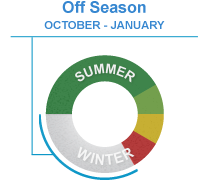
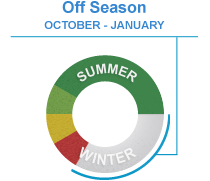
New mockups

diff --git a/mockups/js/jquery.raty.min.js b/mockups/js/jquery.raty.min.js
@@ -1,12 +1,13 @@
 /**
  * jQuery Raty - A Star Rating Plugin - http://wbotelhos.com/raty
  * 
- * @author	  Washington Botelho
- * @twitter   wbotelhos
+ * @author  Washington Botelho
+ * @twitter wbotelhos
+ * @version 1.3.2
  * 
  * Licensed under The MIT License
  * http://opensource.org/licenses/mit-license.php
  * 
  */
 
-(function(g){g.fn.raty=function(m){options=g.extend({},g.fn.raty.defaults,m);if(this.length==0){d("Invalid selector!");return;}else{if(this.length>1){return this.each(function(){g.fn.raty.apply(g(this),[m]);});}}if(options.number>20){options.number=20;}else{if(options.number<0){options.number=0;}}if(options.path.substring(options.path.length-1,options.path.length)!="/"){options.path+="/";}$global=g(this);var k=this.attr("id"),l=0,r=options.starOn,n="";if(k==""){k="raty-"+$global.index();$global.attr("id",k);}if(!isNaN(options.start)&&options.start>0){l=(options.start>options.number)?options.number:options.start;}for(var o=1;o<=options.number;o++){r=(l>=o)?options.starOn:options.starOff;n=(o<=options.hintList.length&&options.hintList[o-1]!==null)?options.hintList[o-1]:o;$global.append('<img id="'+k+"-"+o+'" src="'+options.path+r+'" alt="'+o+'" title="'+n+'" class="'+k+'"/>').append((o<options.number)?"&nbsp;":"");}g("<input/>",{id:k+"-score",type:"hidden",name:options.scoreName}).appendTo($global).val(l);if(options.showHalf){b($global,g("input#"+k+"-score").val(),options);}if(!options.readOnly){if(options.showCancel){var p=g("img."+k),s='<img src="'+options.path+options.cancelOff+'" alt="x" title="'+options.cancelHint+'" class="button-cancel"/>',j=options,q=$global;if(j.cancelPlace=="left"){$global.prepend(s+"&nbsp;");}else{$global.append("&nbsp;").append(s);}g("#"+k+" img.button-cancel").mouseenter(function(){g(this).attr("src",j.path+j.cancelOn);p.attr("src",j.path+j.starOff);}).mouseleave(function(){g(this).attr("src",j.path+j.cancelOff);p.mouseout();}).click(function(){g("input#"+k+"-score").val(0);if(j.onClick){j.onClick.apply(q,[0]);}});$global.css("width",j.number*20+20);}else{$global.css("width",options.number*20);}$global.css("cursor","pointer");f($global,options);}else{$global.css("cursor","default");h($global,l,options);}return $global;};g.fn.raty.defaults={cancelHint:"cancel this rating!",cancelOff:"cancel-off.png",cancelOn:"cancel-on.png",cancelPlace:"left",hintList:["bad","poor","regular","good","gorgeous"],noRatedMsg:"not rated yet",number:5,path:"images/",iconRange:[],readOnly:false,scoreName:"score",showCancel:false,showHalf:false,starHalf:"star-half.png",starOff:"star-off.png",starOn:"star-on.png",start:0,onClick:null};g.fn.raty.click=function(j,k){var i=e(j,k,"click");a(i,j,options);if(options.onClick){options.onClick.apply(i,[j]);}else{d('You must add the "onClick: function(score) { }" option.');}return g.fn.raty;};g.fn.raty.readOnly=function(j,l){var i=e(j,l,"readOnly"),k=i.children("img.button-cancel");if(k[0]){(j)?k.hide():k.show();}if(j){g("img."+i.attr("id")).unbind();i.css("cursor","default").unbind();}else{f(i,options);i.css("cursor","pointer");}return g.fn.raty;};g.fn.raty.start=function(i,j){a(e(i,j,"start"),i,options);return g.fn.raty;};function f(k,j){var m=k.attr("id"),l=g("input#"+m+"-score"),i=g("img."+m).length;g("#"+m).mouseleave(function(){a(k,l.val(),j);});g("img."+m).mouseenter(function(){c(m,this.alt,j);}).click(function(){l.val(this.alt);if(j.onClick){j.onClick.apply(k,[this.alt]);}});}function e(l,m,i){var j=$global;if(m){if(m.indexOf(".")==0){var k;return g(m).each(function(){k="#"+g(this).attr("id");if(i=="start"){g.fn.raty.start(l,k);}else{if(i=="click"){g.fn.raty.click(l,k);}else{if(i=="readOnly"){g.fn.raty.readOnly(l,k);}}}});}j=g(m);if(!j.length){d('"'+m+'" is a invalid ID for the public funtion $.fn.raty.'+i+"().");return;}}return j;}function d(i){if(console&&console.log){console.log(i);}}function c(j,k,r){var l=g("img."+j).length,q=0,o=0,p,m;for(var n=1;n<=l;n++){p=g("img#"+j+"-"+n);if(n<=k){if(r.iconRange&&r.iconRange.length>q){m=r.iconRange[q][0];o=r.iconRange[q][1];if(n<=o){p.attr("src",r.path+m);}if(n==o){q++;}}else{p.attr("src",r.path+r.starOn);}}else{p.attr("src",r.path+r.starOff);}}}function h(j,k,i){if(k!=0){k=parseInt(k);hint=(k>0&&i.number<=i.hintList.length&&i.hintList[k-1]!==null)?i.hintList[k-1]:k;}else{hint=i.noRatedMsg;}g("#"+j.attr("id")).attr("title",hint).children("img").attr("title",hint);}function a(j,k,i){var l=j.attr("id");if(k<0||isNaN(k)){k=0;}else{if(k>i.number){k=i.number;}}g("input#"+l+"-score").val(k);c(l,k,i);if(i.showHalf){b(j,k,i);}if(i.readOnly||j.css("cursor")=="default"){h(j,k,i);}}function b(k,m,j){var n=k.attr("id"),i=Math.ceil(m),l=(i-m).toFixed(1);if(l>=0.3&&l<=0.7){i=i-0.5;g("img#"+n+"-"+Math.ceil(i)).attr("src",j.path+j.starHalf);}else{if(l>=0.8){i--;}else{g("img#"+n+"-"+i).attr("src",j.path+j.starOn);}}}})(jQuery);
+(function(g){g.fn.raty=function(n){options=g.extend({},g.fn.raty.defaults,n);if(this.length==0){d("Selector invalid or missing!");return;}else{if(this.length>1){return this.each(function(){g.fn.raty.apply(g(this),[n]);});}}if(options.number>20){options.number=20;}else{if(options.number<0){options.number=0;}}if(options.path.substring(options.path.length-1,options.path.length)!="/"){options.path+="/";}$global=g(this);$global.data("options",options);var k=this.attr("id"),l=0,s=options.starOn,o="",m=(options.width)?options.width:(options.number*options.size+options.number*4);if(k==""){k="raty-"+$global.index();$global.attr("id",k);}if(!isNaN(options.start)&&options.start>0){l=(options.start>options.number)?options.number:options.start;}for(var p=1;p<=options.number;p++){s=(l>=p)?options.starOn:options.starOff;o=(p<=options.hintList.length&&options.hintList[p-1]!==null)?options.hintList[p-1]:p;$global.append('<img id="'+k+"-"+p+'" src="'+options.path+s+'" alt="'+p+'" title="'+o+'" class="'+k+'"/>').append((p<options.number)?"&nbsp;":"");}g("<input/>",{id:k+"-score",type:"hidden",name:options.scoreName}).appendTo($global).val(l);if(options.half){b($global,g("input#"+k+"-score").val(),options);}if(!options.readOnly){if(options.cancel){var q=g("img."+k),t='<img src="'+options.path+options.cancelOff+'" alt="x" title="'+options.cancelHint+'" class="button-cancel"/>',j=options,r=$global;if(j.cancelPlace=="left"){$global.prepend(t+"&nbsp;");}else{$global.append("&nbsp;").append(t);}g("#"+k+" img.button-cancel").mouseenter(function(){g(this).attr("src",j.path+j.cancelOn);q.attr("src",j.path+j.starOff);}).mouseleave(function(){g(this).attr("src",j.path+j.cancelOff);q.mouseout();}).click(function(){g("input#"+k+"-score").val(0);if(j.click){j.click.apply(r,[0]);}});$global.css("width",m+options.size+4);}else{$global.css("width",m);}$global.css("cursor","pointer");f($global,options);}else{$global.css("cursor","default");h($global,l,options);}return $global;};function f(k,j){var m=k.attr("id"),l=g("input#"+m+"-score"),i=g("img."+m).length;g("#"+m).mouseleave(function(){a(k,l.val(),j);});g("img."+m).mousemove(function(o){c(m,this.alt,j);if(j.half){var n=parseFloat(((o.pageX-g(this).offset().left)/j.size).toFixed(1));n=(n>=0&&n<0.5)?0.5:1;k.data("score",parseFloat(this.alt)+n-1);b(k,k.data("score"),j);}else{c(m,this.alt,j);}}).click(function(){l.val(j.half?k.data("score"):this.alt);if(j.click){j.click.apply(k,[l.val()]);}});}function e(m,j,i){var k=$global;if(j){if(j.indexOf(".")>=0){var l;return g(j).each(function(){l="#"+g(this).attr("id");if(i=="start"){g.fn.raty.start(m,l);}else{if(i=="click"){g.fn.raty.click(m,l);}else{if(i=="readOnly"){g.fn.raty.readOnly(m,l);}}}});}k=g(j);if(!k.length){d('"'+j+'" is a invalid identifier for the public funtion $.fn.raty.'+i+"().");return;}}return k;}function d(i){if(console&&console.log){console.log(i);}}function c(j,k,r){var l=g("img."+j).length,q=0,o=0,p,m;for(var n=1;n<=l;n++){p=g("img#"+j+"-"+n);if(n<=k){if(r.iconRange&&r.iconRange.length>q){m=r.iconRange[q][0];o=r.iconRange[q][1];if(n<=o){p.attr("src",r.path+m);}if(n==o){q++;}}else{p.attr("src",r.path+r.starOn);}}else{p.attr("src",r.path+r.starOff);}}}function h(j,k,i){if(k!=0){k=parseInt(k);hint=(k>0&&i.number<=i.hintList.length&&i.hintList[k-1]!==null)?i.hintList[k-1]:k;}else{hint=i.noRatedMsg;}g("#"+j.attr("id")).attr("title",hint).children("img").attr("title",hint);}function a(j,k,i){var l=j.attr("id");if(k<0||isNaN(k)){k=0;}else{if(k>i.number){k=i.number;}}g("input#"+l+"-score").val(k);c(l,k,i);if(i.half){b(j,k,i);}if(i.readOnly||j.css("cursor")=="default"){h(j,k,i);}}function b(k,m,j){var n=k.attr("id"),i=Math.ceil(m),l=(i-m).toFixed(1);if(l>=0.3&&l<=0.7){i=i-0.5;g("img#"+n+"-"+Math.ceil(i)).attr("src",j.path+j.starHalf);}else{if(l>=0.8){i--;}else{g("img#"+n+"-"+i).attr("src",j.path+j.starOn);}}}g.fn.raty.click=function(l,j){var k=e(l,j,"click"),i=g(j).data("options");a(k,l,i);if(i.click){i.click.apply(k,[l]);}else{d('You must add the "click: function(score) { }" callback.');}return g.fn.raty;};g.fn.raty.readOnly=function(l,j){var k=e(l,j,"readOnly"),m=k.children("img.button-cancel"),i=g(j).data("options");if(m[0]){(l)?m.hide():m.show();}if(l){g("img."+k.attr("id")).unbind();k.css("cursor","default").unbind();}else{f(k,i);k.css("cursor","pointer");}return g.fn.raty;};g.fn.raty.start=function(l,j){var k=e(l,j,"start"),i=g(j).data("options");a(k,l,i);return g.fn.raty;};g.fn.raty.defaults={cancel:false,cancelHint:"cancel this rating!",cancelOff:"cancel-off.png",cancelOn:"cancel-on.png",cancelPlace:"left",click:null,half:false,hintList:["bad","poor","regular","good","gorgeous"],noRatedMsg:"not rated yet",number:5,path:"img/",iconRange:[],readOnly:false,scoreName:"score",size:16,starHalf:"star-half.png",starOff:"star-off.png",starOn:"star-on.png",start:0,width:null};})(jQuery);

diff --git a/mockups/homepage.html b/mockups/homepage.html
@@ -71,6 +71,10 @@
         <div class="grid_9">
             
             <div class="content">
+            
+                <div id="user-login">
+                    <p>You are signed in as socstudent@gmail.com. <a href="javascript:void(0)">(Not you?)</a></p>
+                </div>
                 
                 <div id="how-it-works" class="block full home-block-1">
                     <h2 id="title-section-how-it-works">How Google Summer of Code Works</h2>
@@ -132,11 +136,11 @@
                         <div id="block-program-timeline-content" class="block-content">
                             <img id="program-timeline" src="images/image-map-student-apps.png" usemap="#program-timeline" width="210" height="181" alt="" />
                             <map id="_program-timeline" name="program-timeline">
-                            <area shape="poly" coords="45,113,56,79,78,60,107,55,134,63,155,84,133,98,118,82,94,79,77,93,72,114," href="javascript:void(0)" alt="On Season" title="On Season" onMouseOver="if(document.images) document.getElementById('program-timeline').src= 'images/image-map-on-season.png';" onMouseOut="if(document.images) document.getElementById('program-timeline').src= 'images/image-map-student-apps.png';" />
-                            <area shape="poly" coords="133,98,143,90,155,84,162,98,164,114,136,114," href="javascript:void(0)" alt="Students Applications" title="Students Applications" onMouseOver="if(document.images) document.getElementById('program-timeline').src= 'images/image-map-student-apps.png';" onMouseOut="if(document.images) document.getElementById('program-timeline').src= 'images/image-map-student-apps.png';" />
-                            <area shape="poly" coords="132,130,137,114,164,114,163,130,156,145,143,137" href="javascript:void(0)" alt="Organization Applications" title="Organization Applications" onMouseOver="if(document.images) document.getElementById('program-timeline').src= 'images/image-map-org-apps.png';" onMouseOut="if(document.images) document.getElementById('program-timeline').src= 'images/image-map-student-apps.png';" />
-                            <area shape="poly" coords="120,142,134,131,155,143,147,156,133,165," href="javascript:void(0)" alt="Kickoff" title="Kickoff" onMouseOver="if(document.images) document.getElementById('program-timeline').src= 'images/image-map-kickoff.png';" onMouseOut="if(document.images) document.getElementById('program-timeline').src= 'images/image-map-student-apps.png';" />
-                            <area shape="poly" coords="45,113,72,113,79,138,105,147,121,141,134,164,100,169,72,161,55,143,48,129," href="javascript:void(0)" alt="Off Season" title="Off Season" onMouseOver="if(document.images) document.getElementById('program-timeline').src= 'images/image-map-off-season.png';" onMouseOut="if(document.images) document.getElementById('program-timeline').src= 'images/image-map-student-apps.png';" />
+                            <area shape="poly" coords="53,83,67,69,86,57,105,55,124,59,140,67,151,78,158,88,161,97,164,114,137,114,135,110,126,89,115,83,103,81,92,83,81,91,76,97" href="javascript:void(0)" alt="On Season" title="On Season" onMouseOver="if(document.images) document.getElementById('program-timeline').src= 'images/image-map-on-season.png';" onMouseOut="if(document.images) document.getElementById('program-timeline').src= 'images/image-map-student-apps.png';" />
+                            <area shape="poly" coords="46,114,46,103,48,95,54,84,77,98,73,105,72,113," href="javascript:void(0)" alt="Students Applications" title="Students Applications" onMouseOver="if(document.images) document.getElementById('program-timeline').src= 'images/image-map-student-apps.png';" onMouseOut="if(document.images) document.getElementById('program-timeline').src= 'images/image-map-student-apps.png';" />
+                            <area shape="poly" coords="53,143,49,134,46,113,72,113,73,122,77,130" href="javascript:void(0)" alt="Organization Applications" title="Organization Applications" onMouseOver="if(document.images) document.getElementById('program-timeline').src= 'images/image-map-org-apps.png';" onMouseOut="if(document.images) document.getElementById('program-timeline').src= 'images/image-map-student-apps.png';" />
+                            <area shape="poly" coords="75,165,62,155,53,143,77,130,81,136,88,142" href="javascript:void(0)" alt="Kickoff" title="Kickoff" onMouseOver="if(document.images) document.getElementById('program-timeline').src= 'images/image-map-kickoff.png';" onMouseOut="if(document.images) document.getElementById('program-timeline').src= 'images/image-map-student-apps.png';" />
+                            <area shape="poly" coords="88,142,101,146,114,145,126,139,134,128,137,113,164,113,161,131,154,145,147,155,134,165,119,171,104,173,89,171,75,165" href="javascript:void(0)" alt="Off Season" title="Off Season" onMouseOver="if(document.images) document.getElementById('program-timeline').src= 'images/image-map-off-season.png';" onMouseOut="if(document.images) document.getElementById('program-timeline').src= 'images/image-map-student-apps.png';" />
                             </map>
                         </div>
                     </div>

diff --git a/mockups/js/smoothscroll.js b/mockups/js/smoothscroll.js
@@ -1,0 +1,145 @@
+/* Smooth scrolling
+   Changes links that link to other parts of this page to scroll
+   smoothly to those links rather than jump to them directly, which
+   can be a little disorienting.
+   
+   sil, http://www.kryogenix.org/
+   
+   v1.0 2003-11-11
+   v1.1 2005-06-16 wrap it up in an object
+*/
+
+var ss = {
+  fixAllLinks: function() {
+    // Get a list of all links in the page
+    var allLinks = document.getElementsByTagName('a');
+    // Walk through the list
+    for (var i=0;i<allLinks.length;i++) {
+      var lnk = allLinks[i];
+      if ((lnk.href && lnk.href.indexOf('#') != -1) && 
+          ( (lnk.pathname == location.pathname) ||
+	    ('/'+lnk.pathname == location.pathname) ) && 
+          (lnk.search == location.search)) {
+        // If the link is internal to the page (begins in #)
+        // then attach the smoothScroll function as an onclick
+        // event handler
+        ss.addEvent(lnk,'click',ss.smoothScroll);
+      }
+    }
+  },
+
+  smoothScroll: function(e) {
+    // This is an event handler; get the clicked on element,
+    // in a cross-browser fashion
+    if (window.event) {
+      target = window.event.srcElement;
+    } else if (e) {
+      target = e.target;
+    } else return;
+
+    // Make sure that the target is an element, not a text node
+    // within an element
+    if (target.nodeName.toLowerCase() != 'a') {
+      target = target.parentNode;
+    }
+  
+    // Paranoia; check this is an A tag
+    if (target.nodeName.toLowerCase() != 'a') return;
+  
+    // Find the <a name> tag corresponding to this href
+    // First strip off the hash (first character)
+    anchor = target.hash.substr(1);
+    // Now loop all A tags until we find one with that name
+    var allLinks = document.getElementsByTagName('a');
+    var destinationLink = null;
+    for (var i=0;i<allLinks.length;i++) {
+      var lnk = allLinks[i];
+      if (lnk.name && (lnk.name == anchor)) {
+        destinationLink = lnk;
+        break;
+      }
+    }
+    if (!destinationLink) destinationLink = document.getElementById(anchor);
+
+    // If we didn't find a destination, give up and let the browser do
+    // its thing
+    if (!destinationLink) return true;
+  
+    // Find the destination's position
+    var destx = destinationLink.offsetLeft; 
+    var desty = destinationLink.offsetTop;
+    var thisNode = destinationLink;
+    while (thisNode.offsetParent && 
+          (thisNode.offsetParent != document.body)) {
+      thisNode = thisNode.offsetParent;
+      destx += thisNode.offsetLeft;
+      desty += thisNode.offsetTop;
+    }
+  
+    // Stop any current scrolling
+    clearInterval(ss.INTERVAL);
+  
+    cypos = ss.getCurrentYPos();
+  
+    ss_stepsize = parseInt((desty-cypos)/ss.STEPS);
+    ss.INTERVAL =
+setInterval('ss.scrollWindow('+ss_stepsize+','+desty+',"'+anchor+'")',10);
+  
+    // And stop the actual click happening
+    if (window.event) {
+      window.event.cancelBubble = true;
+      window.event.returnValue = false;
+    }
+    if (e && e.preventDefault && e.stopPropagation) {
+      e.preventDefault();
+      e.stopPropagation();
+    }
+  },
+
+  scrollWindow: function(scramount,dest,anchor) {
+    wascypos = ss.getCurrentYPos();
+    isAbove = (wascypos < dest);
+    window.scrollTo(0,wascypos + scramount);
+    iscypos = ss.getCurrentYPos();
+    isAboveNow = (iscypos < dest);
+    if ((isAbove != isAboveNow) || (wascypos == iscypos)) {
+      // if we've just scrolled past the destination, or
+      // we haven't moved from the last scroll (i.e., we're at the
+      // bottom of the page) then scroll exactly to the link
+      window.scrollTo(0,dest);
+      // cancel the repeating timer
+      clearInterval(ss.INTERVAL);
+      // and jump to the link directly so the URL's right
+      location.hash = anchor;
+    }
+  },
+
+  getCurrentYPos: function() {
+    if (document.body && document.body.scrollTop)
+      return document.body.scrollTop;
+    if (document.documentElement && document.documentElement.scrollTop)
+      return document.documentElement.scrollTop;
+    if (window.pageYOffset)
+      return window.pageYOffset;
+    return 0;
+  },
+
+  addEvent: function(elm, evType, fn, useCapture) {
+    // addEvent and removeEvent
+    // cross-browser event handling for IE5+,  NS6 and Mozilla
+    // By Scott Andrew
+    if (elm.addEventListener){
+      elm.addEventListener(evType, fn, useCapture);
+      return true;
+    } else if (elm.attachEvent){
+      var r = elm.attachEvent("on"+evType, fn);
+      return r;
+    } else {
+      alert("Handler could not be removed");
+    }
+  } 
+}
+
+ss.STEPS = 25;
+
+ss.addEvent(window,"load",ss.fixAllLinks);

diff --git a/mockups/css/structure.css b/mockups/css/structure.css
@@ -423,6 +423,9 @@
 #footer .footer-meta .powered {
   padding-right: 15px;
 }
+#footer .footer-meta img {
+    vertical-align: bottom;
+}
 #footer .footer-menu {
   /*menu in footer*/
 
@@ -665,3 +668,22 @@ p.reply-logged-in a {
   font-style: normal;
   font-weight: normal;
 }
+/*////////////////
+
+  User Login
+
+////////////////*/
+#user-login {
+    margin: 0 0 10px 0;
+    text-align: right;
+}
+    #user-login p {
+        color: #989898;
+        font-style: italic;
+        font-weight: bold;
+        margin: 0;
+    }
+    #user-login a {
+        font-style: normal;
+        font-weight: normal;
+    }
